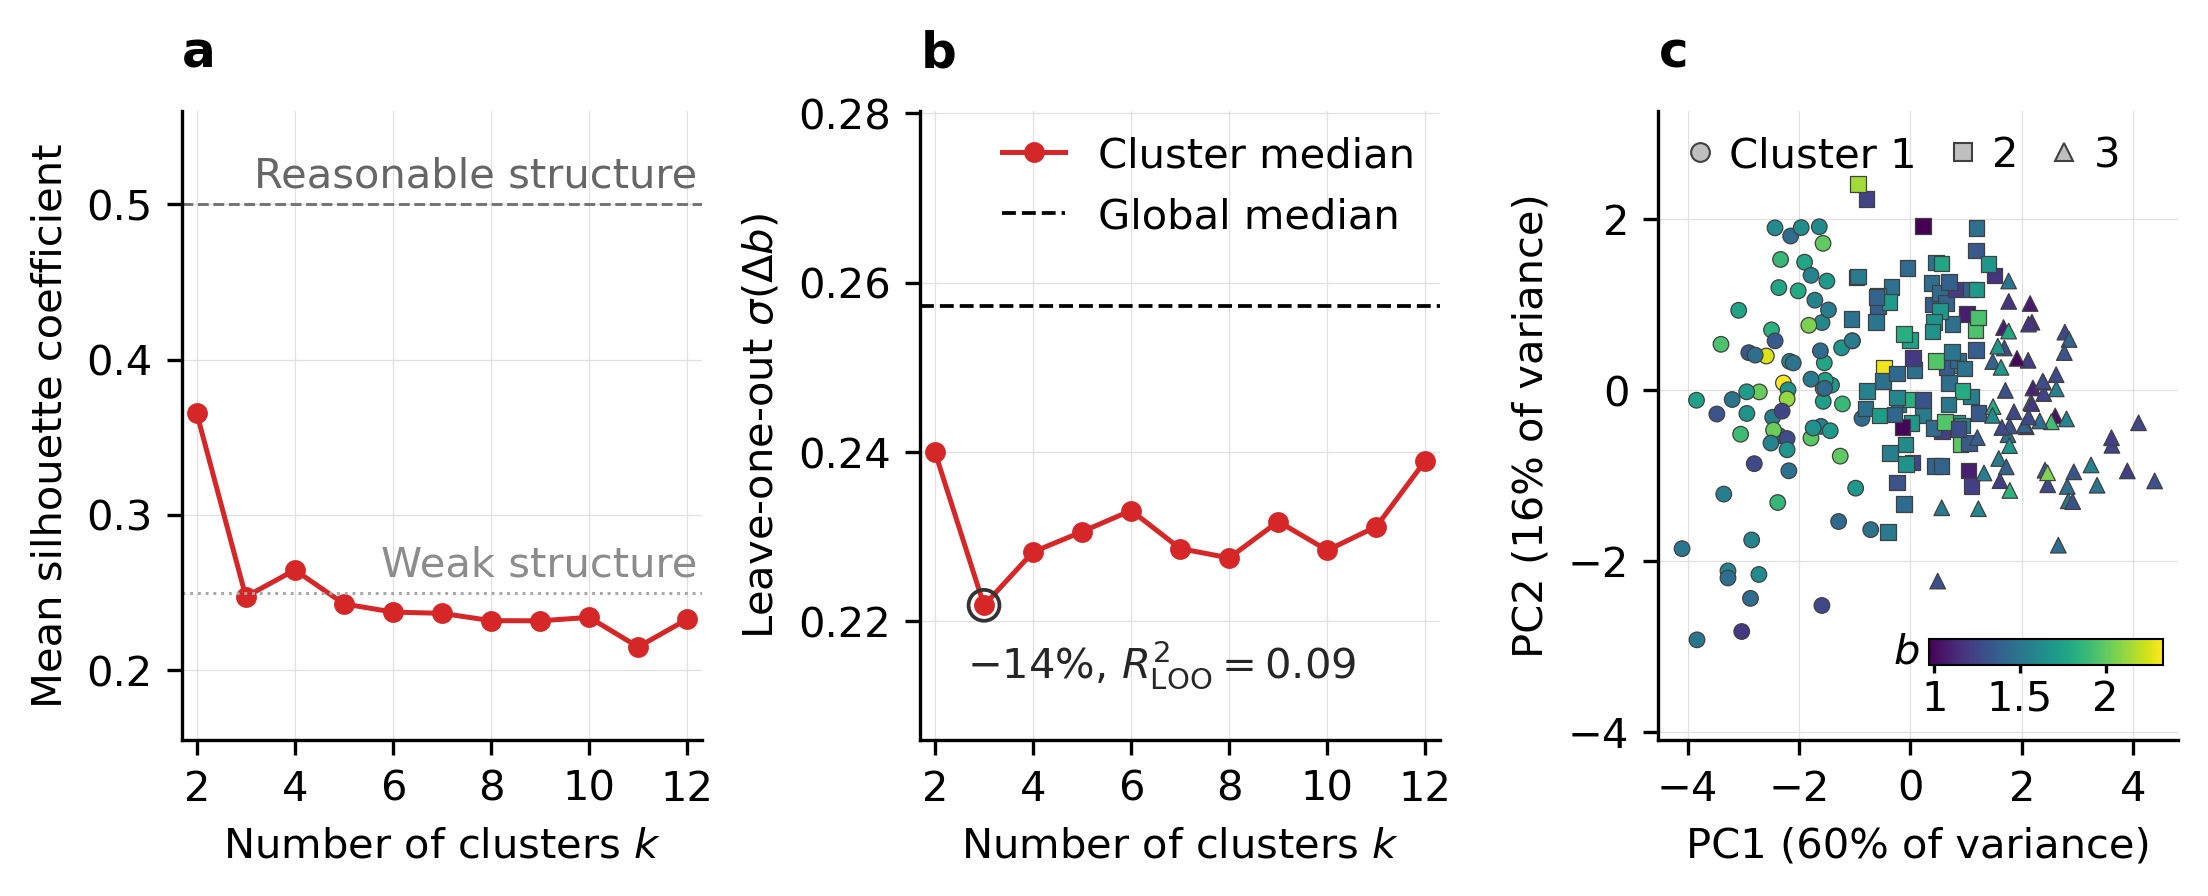
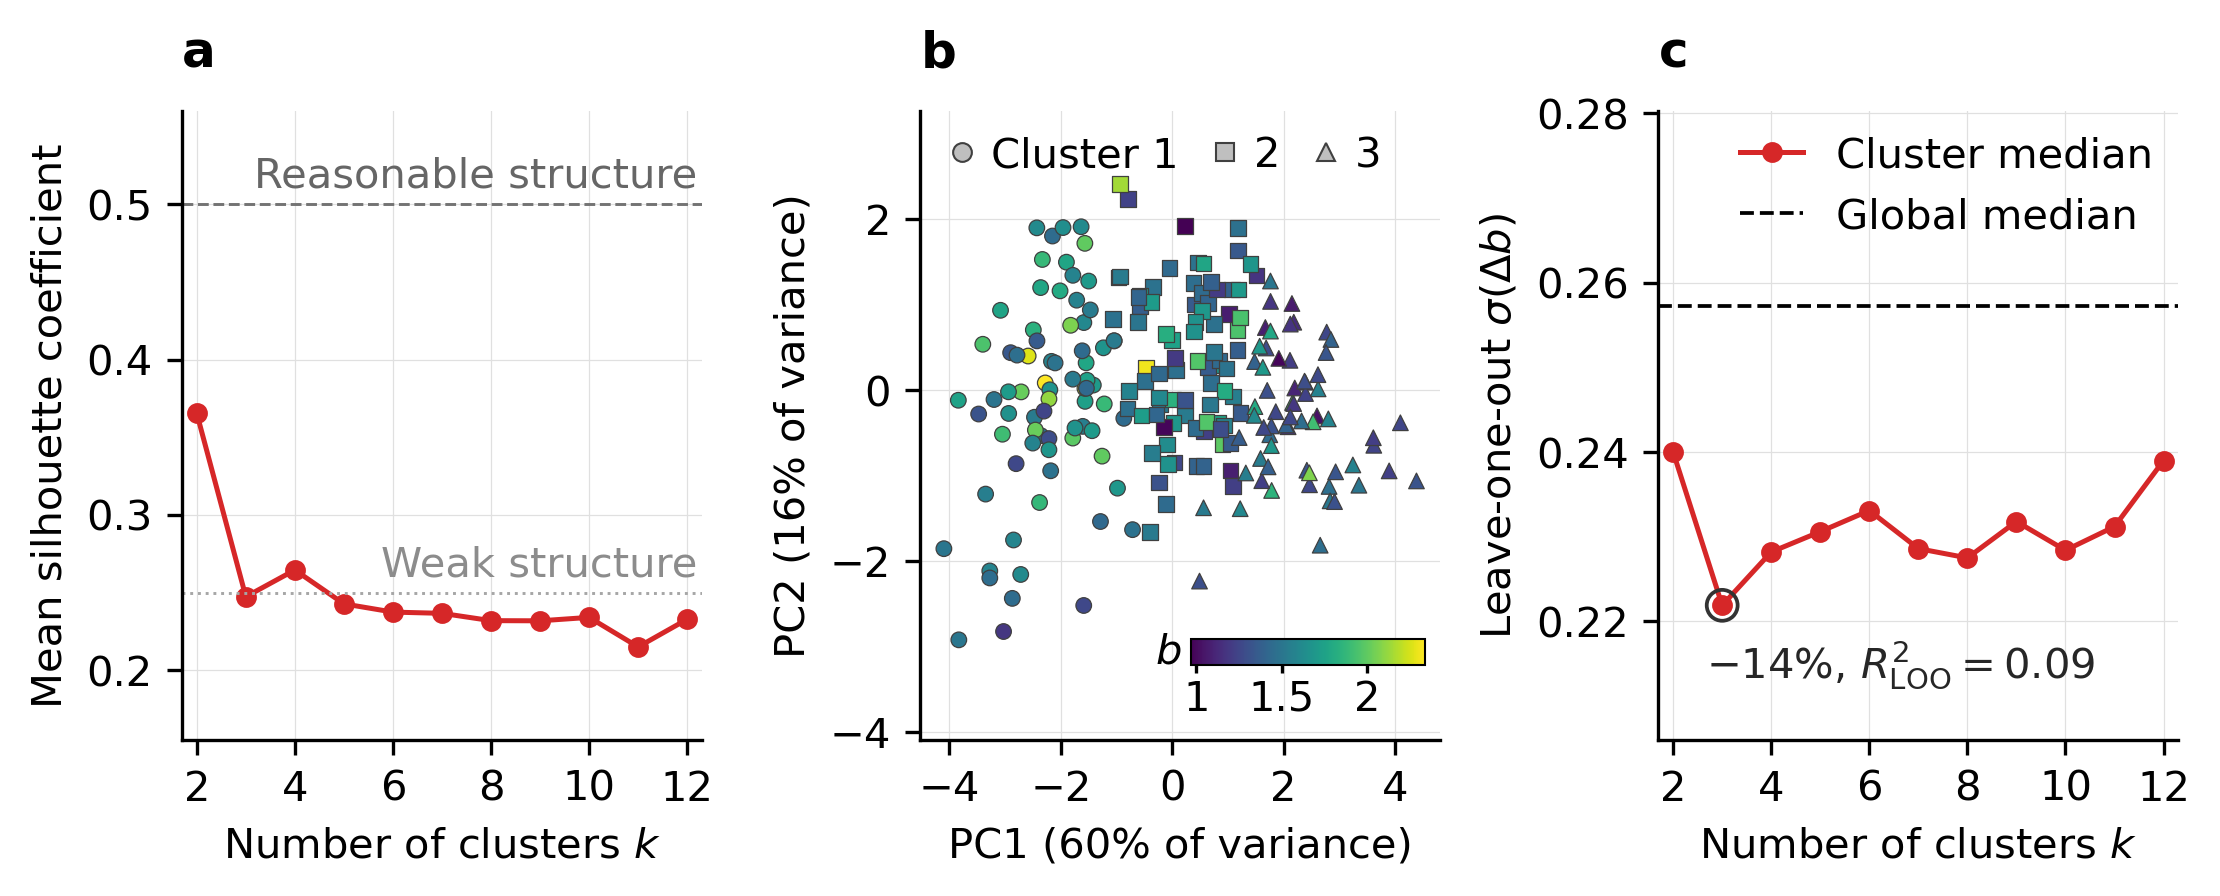
Clustering diagnostic shows the principal components as panel b and the leave-one-out sweep as panel c
Panel s1 draws the training dams in the plane of the first two principal
components as panel b and the leave-one-out sweep over k as panel c, the
order in which the report discusses them. The report caption and its
cross-references follow, the diagnostic values are unchanged.

diff --git a/eaves/postprocess/panels/s1.py b/eaves/postprocess/panels/s1.py
@@ -5,13 +5,13 @@ Three questions:
 1.  Do the training dams partition into morphological clusters in
     log-transformed feature space? Quantified by the mean silhouette
     coefficient across ``k = 2 .. 12``.
-2.  Even if they did, would a per-cluster median ``b`` reduce out-of-sample
-    error? Quantified by leave-one-out ``sigma(delta_b)`` against the
-    global-median baseline and by the leave-one-out R² of the per-cluster
-    median.
-3.  Does ``b`` follow a continuous gradient of the features instead?
+2.  Does ``b`` follow a continuous gradient of the features instead?
     Quantified by the variance shares of the first two principal components
     of the features and the Spearman correlation of ``b`` with the first.
+3.  Even if the dams did partition, would a per-cluster median ``b`` reduce
+    out-of-sample error? Quantified by leave-one-out ``sigma(delta_b)``
+    against the global-median baseline and by the leave-one-out R² of the
+    per-cluster median.
 
 Writes:
 
@@ -204,40 +204,13 @@ def make_s1_clustering(out_dir: Path) -> Path:
         ax_a.grid(True, linewidth=0.3, color="0.88")
         ax_a.set_axisbelow(True)
 
-        # ---- Panel b: LOO sigma(delta_b) vs k ----
+        # ---- Best k of the leave-one-out sweep, shared by panels b and c ----
         base = float(sub["loo_sigma_baseline"].iloc[0])
-        ax_b.plot(sub["k"], sub["loo_sigma_delta_b"],
-                  color=_CURVE_COLOR, marker="o", linewidth=1.2, markersize=4.0,
-                  label="Cluster median")
-        ax_b.axhline(base, color="black", linewidth=0.9, linestyle="--",
-                     label="Global median")
-
         best_idx = sub["loo_sigma_delta_b"].idxmin()
         best_k = int(sub.at[best_idx, "k"])
         best_sigma = float(sub.at[best_idx, "loo_sigma_delta_b"])
-        ax_b.scatter([best_k], [best_sigma], s=55, facecolor="none",
-                     edgecolor="0.20", linewidth=0.9, zorder=5)
-        gain = f"{-float(sub.at[best_idx, 'loo_relative_gain_pct']):+.0f}%".replace("-", "\N{MINUS SIGN}")
-        ax_b.annotate(
-            f"{gain}, "
-            f"$R^2_{{\\mathrm{{LOO}}}} = {sub.at[best_idx, 'loo_r2']:.2f}$",
-            xy=(best_k, best_sigma), xytext=(-4, -8), textcoords="offset points",
-            color="0.15", va="top", ha="left",
-        )
-        # Leaves a band under the curve for the best-k note and a band over the baseline for the key
-        span = base - float(sub["loo_sigma_delta_b"].min())
-        ax_b.set_ylim(best_sigma - 0.45 * span, base + 0.65 * span)
 
-        ax_b.set_xlabel(r"Number of clusters $k$")
-        ax_b.set_ylabel(r"Leave-one-out $\sigma(\Delta b)$")
-        ax_b.set_xticks(_K_RANGE[::2])
-        ax_b.set_xlim(1.7, 12.3)
-        ax_b.grid(True, linewidth=0.3, color="0.88")
-        ax_b.set_axisbelow(True)
-        ax_b.legend(loc="upper right", frameon=False,
-                    handlelength=1.5, borderaxespad=0.2)
-
-        # ---- Panel c: PC1 vs PC2 colored by b, marker shape by cluster ----
+        # ---- Panel b: PC1 vs PC2 colored by b, marker shape by cluster ----
         X = _design_matrix(T, CLUSTER_FEATURES)
         scores, _ = _principal_components(X)
         labels = _cluster_labels(X, scores[:, 0], best_k)
@@ -247,7 +220,7 @@ def make_s1_clustering(out_dir: Path) -> Path:
         for i in range(best_k):
             sel = labels == i
             marker = _CLUSTER_MARKERS[i % len(_CLUSTER_MARKERS)]
-            mappable = ax_c.scatter(
+            mappable = ax_b.scatter(
                 scores[sel, 0], scores[sel, 1], c=b[sel], cmap=_B_CMAP, norm=norm,
                 marker=marker, s=14, edgecolor="0.25", linewidth=0.3, zorder=3,
             )
@@ -255,15 +228,15 @@ def make_s1_clustering(out_dir: Path) -> Path:
                                   markersize=4.5, markerfacecolor="0.75",
                                   markeredgecolor="0.25", markeredgewidth=0.5,
                                   label=f"Cluster {i + 1}" if i == 0 else f"{i + 1}"))
-        ax_c.legend(handles=handles, loc="upper left", ncol=best_k, frameon=False,
+        ax_b.legend(handles=handles, loc="upper left", ncol=best_k, frameon=False,
                     handlelength=0.8, handletextpad=0.3, columnspacing=0.7,
                     borderaxespad=0.2)
 
         # Leaves a band over the cloud for the cluster key and a band under it for the colorbar
         y_lo, y_hi = float(scores[:, 1].min()), float(scores[:, 1].max())
         y_span = y_hi - y_lo
-        ax_c.set_ylim(y_lo - 0.22 * y_span, y_hi + 0.16 * y_span)
-        cax = ax_c.inset_axes([0.52, 0.12, 0.45, 0.04])
+        ax_b.set_ylim(y_lo - 0.22 * y_span, y_hi + 0.16 * y_span)
+        cax = ax_b.inset_axes([0.52, 0.12, 0.45, 0.04])
         cbar = fig.colorbar(mappable, cax=cax, orientation="horizontal")
         cax.text(-0.04, 0.5, "$b$", transform=cax.transAxes, ha="right", va="center")
         cbar.ax.xaxis.set_major_locator(plt.MultipleLocator(0.5))
@@ -271,12 +244,40 @@ def make_s1_clustering(out_dir: Path) -> Path:
         cbar.ax.tick_params(length=2.0, pad=1.5)
         cbar.outline.set_linewidth(0.5)
 
-        ax_c.set_xlabel(f"PC1 ({100.0 * float(sub['pc1_var_share'].iloc[0]):.0f}% of variance)")
-        ax_c.set_ylabel(f"PC2 ({100.0 * float(sub['pc2_var_share'].iloc[0]):.0f}% of variance)")
-        ax_c.xaxis.set_major_locator(plt.MultipleLocator(2))
-        ax_c.yaxis.set_major_locator(plt.MultipleLocator(2))
+        ax_b.set_xlabel(f"PC1 ({100.0 * float(sub['pc1_var_share'].iloc[0]):.0f}% of variance)")
+        ax_b.set_ylabel(f"PC2 ({100.0 * float(sub['pc2_var_share'].iloc[0]):.0f}% of variance)")
+        ax_b.xaxis.set_major_locator(plt.MultipleLocator(2))
+        ax_b.yaxis.set_major_locator(plt.MultipleLocator(2))
+        ax_b.grid(True, linewidth=0.3, color="0.88")
+        ax_b.set_axisbelow(True)
+
+        # ---- Panel c: LOO sigma(delta_b) vs k ----
+        ax_c.plot(sub["k"], sub["loo_sigma_delta_b"],
+                  color=_CURVE_COLOR, marker="o", linewidth=1.2, markersize=4.0,
+                  label="Cluster median")
+        ax_c.axhline(base, color="black", linewidth=0.9, linestyle="--",
+                     label="Global median")
+        ax_c.scatter([best_k], [best_sigma], s=55, facecolor="none",
+                     edgecolor="0.20", linewidth=0.9, zorder=5)
+        gain = f"{-float(sub.at[best_idx, 'loo_relative_gain_pct']):+.0f}%".replace("-", "\N{MINUS SIGN}")
+        ax_c.annotate(
+            f"{gain}, "
+            f"$R^2_{{\\mathrm{{LOO}}}} = {sub.at[best_idx, 'loo_r2']:.2f}$",
+            xy=(best_k, best_sigma), xytext=(-4, -8), textcoords="offset points",
+            color="0.15", va="top", ha="left",
+        )
+        # Leaves a band under the curve for the best-k note and a band over the baseline for the key
+        span = base - float(sub["loo_sigma_delta_b"].min())
+        ax_c.set_ylim(best_sigma - 0.45 * span, base + 0.65 * span)
+
+        ax_c.set_xlabel(r"Number of clusters $k$")
+        ax_c.set_ylabel(r"Leave-one-out $\sigma(\Delta b)$")
+        ax_c.set_xticks(_K_RANGE[::2])
+        ax_c.set_xlim(1.7, 12.3)
         ax_c.grid(True, linewidth=0.3, color="0.88")
         ax_c.set_axisbelow(True)
+        ax_c.legend(loc="upper right", frameon=False,
+                    handlelength=1.5, borderaxespad=0.2)
 
         panel_label(ax_a, "a", fontsize=12, y_offset_pt=8.0)
         panel_label(ax_b, "b", fontsize=12, y_offset_pt=8.0)

diff --git a/eaves/postprocess/report.py b/eaves/postprocess/report.py
@@ -1209,13 +1209,13 @@ def render_report_md(stats: dict, generated_at: str) -> str:
       f"{_fmt(stats.get('b_cluster_baseline_sigma'))} to "
       f"{_fmt(stats.get('b_cluster_best_sigma'))}, but its leave-one-out R² "
       f"reaches only {_fmt(stats.get('b_cluster_best_loo_r2'))}, below the "
-      "0.25 gate applied to the regressions (Fig. S1b). Mean silhouette "
+      "0.25 gate applied to the regressions (Fig. S1c). Mean silhouette "
       f"coefficients of {_fmt(stats.get('b_cluster_silhouette_min'))} to "
       f"{_fmt(stats.get('b_cluster_silhouette_max'))} stay below the "
       "conventional 0.50 reasonable-structure threshold, so the training "
       "dams do not split into well-separated groups, although b varies "
       "gradually along the first principal component (Spearman ρ = "
-      f"{_fmt(stats.get('b_cluster_pc1_spearman_b'))}, Fig. S1c).")
+      f"{_fmt(stats.get('b_cluster_pc1_spearman_b'))}, Fig. S1b).")
     A("")
     A("_Practical implication._ "
       "No clustering configuration reaches the 0.25 gate that a regression "
@@ -1581,21 +1581,21 @@ def render_report_md(stats: dict, generated_at: str) -> str:
         "conventional 0.50 reasonable-structure threshold for every "
         f"k. The k = {stats.get('b_cluster_silhouette_max_k', 'n/a')} peak at "
         f"{_fmt(stats.get('b_cluster_silhouette_max'))} reflects a cut "
-        "across the dominant gradient of panel c, not two morphological "
-        "types. (b) Leave-"
+        "across the dominant gradient of panel b, not two morphological "
+        "types. (b) The training dams in the plane of "
+        "the first two principal components of the standardized "
+        "log-transformed features, colored by b, with marker shapes for "
+        "the clusters at the best k of panel c. The first two components "
+        f"carry {pc1_share_str} and {pc2_share_str} of the variance, and b "
+        "varies along the first "
+        f"(Spearman ρ = {pc1_rho_str}), so the dams form "
+        "one continuous cloud along which b changes gradually. "
+        "(c) Leave-"
         "one-out σ(Δb) for a per-cluster-median predictor "
         "of b versus the global-median baseline (dashed). The best "
         f"configuration (k = {stats.get('b_cluster_best_k', 'n/a')}) lowers σ(Δb) "
         f"by {gain_str}%, while its leave-one-out R² stays at "
-        f"{_fmt(stats.get('b_cluster_best_loo_r2'))}, below the 0.25 gate. "
-        "(c) The training dams in the plane of "
-        "the first two principal components of the standardized "
-        "log-transformed features, colored by b, with marker shapes for "
-        "the clusters at the best k of panel b. The first two components "
-        f"carry {pc1_share_str} and {pc2_share_str} of the variance, and b "
-        "varies along the first "
-        f"(Spearman ρ = {pc1_rho_str}), so the dams form "
-        "one continuous cloud along which b changes gradually.",
+        f"{_fmt(stats.get('b_cluster_best_loo_r2'))}, below the 0.25 gate.",
     ))
     L.extend(_embed_figure(
         "s2_uncertainty_band.png",

diff --git a/region/ksa/output/report.md b/region/ksa/output/report.md
@@ -1,6 +1,6 @@
 # EAVES domain report: Saudi Arabia
 
-Generated: 2026-11-04 15:49 UTC
+Generated: 2026-11-05 08:54 UTC
 
 Source code: `eaves/` package. This report: `eaves.postprocess.report`.
 
@@ -121,7 +121,7 @@ _Choice of b._ The selected procedure assigns every regionalized dam the regiona
 
 _1. Multivariate regression (linear and random forest)._ A linear regression and a random forest of b on `valley_ratio`, `channel_slope`, `mean_catchment_slope`, and `dam_height_m` are evaluated by leave-one-out cross-validation on the training dams at or above the minimum training capacity with complete features. The selection gate requires R²_LOO ≥ 0.25 for a regression to replace the median. Both models fall below the gate. No single feature explains more than about 10% of the variance in b (Spearman |ρ| ≤ 0.32 over the 84 dams of the regression basis), and the features are partly redundant, so combining them yields no improvement over the constant. The regional median is therefore retained.
 
-_2. Morphological clustering with a per-cluster median._ K-means clustering in standardized log space on six morphometric features (valley-width ratio, channel slope, mean catchment slope, dam height, spillway height and dam length) sweeps k = 2 to 12, with the results released in `validation/b_clustering_diagnostic.csv`. The best configuration (k = 3) lowers the leave-one-out σ(Δb) by 14%, from 0.26 to 0.22, but its leave-one-out R² reaches only 0.09, below the 0.25 gate applied to the regressions (Fig. S1b). Mean silhouette coefficients of 0.22 to 0.37 stay below the conventional 0.50 reasonable-structure threshold, so the training dams do not split into well-separated groups, although b varies gradually along the first principal component (Spearman ρ = -0.41, Fig. S1c).
+_2. Morphological clustering with a per-cluster median._ K-means clustering in standardized log space on six morphometric features (valley-width ratio, channel slope, mean catchment slope, dam height, spillway height and dam length) sweeps k = 2 to 12, with the results released in `validation/b_clustering_diagnostic.csv`. The best configuration (k = 3) lowers the leave-one-out σ(Δb) by 14%, from 0.26 to 0.22, but its leave-one-out R² reaches only 0.09, below the 0.25 gate applied to the regressions (Fig. S1c). Mean silhouette coefficients of 0.22 to 0.37 stay below the conventional 0.50 reasonable-structure threshold, so the training dams do not split into well-separated groups, although b varies gradually along the first principal component (Spearman ρ = -0.41, Fig. S1b).
 
 _Practical implication._ No clustering configuration reaches the 0.25 gate that a regression must clear, so the selected procedure keeps the **regional median**, and the `b_sigma` column of `validation/v_uncertainty.csv` quantifies the remaining spread of b.
 
@@ -220,7 +220,7 @@ To run EAVES on a new region, give the paths of the dam catalog, the DEM and the
 
 ![Supplementary: K-means clustering diagnostic for b](2_results_plots/s1_b_clustering_silhouette.png)
 
-_Figure S1. K-means clustering diagnostic on the training-set dams in log-transformed morphometric feature space. (a) Mean silhouette coefficient versus number of clusters k for the six morphometric features. It remains below the conventional 0.50 reasonable-structure threshold for every k. The k = 2 peak at 0.37 reflects a cut across the dominant gradient of panel c, not two morphological types. (b) Leave-one-out σ(Δb) for a per-cluster-median predictor of b versus the global-median baseline (dashed). The best configuration (k = 3) lowers σ(Δb) by 14%, while its leave-one-out R² stays at 0.09, below the 0.25 gate. (c) The training dams in the plane of the first two principal components of the standardized log-transformed features, colored by b, with marker shapes for the clusters at the best k of panel b. The first two components carry 60% and 16% of the variance, and b varies along the first (Spearman ρ = -0.41), so the dams form one continuous cloud along which b changes gradually._
+_Figure S1. K-means clustering diagnostic on the training-set dams in log-transformed morphometric feature space. (a) Mean silhouette coefficient versus number of clusters k for the six morphometric features. It remains below the conventional 0.50 reasonable-structure threshold for every k. The k = 2 peak at 0.37 reflects a cut across the dominant gradient of panel b, not two morphological types. (b) The training dams in the plane of the first two principal components of the standardized log-transformed features, colored by b, with marker shapes for the clusters at the best k of panel c. The first two components carry 60% and 16% of the variance, and b varies along the first (Spearman ρ = -0.41), so the dams form one continuous cloud along which b changes gradually. (c) Leave-one-out σ(Δb) for a per-cluster-median predictor of b versus the global-median baseline (dashed). The best configuration (k = 3) lowers σ(Δb) by 14%, while its leave-one-out R² stays at 0.09, below the 0.25 gate._
 
 ![Supplementary: Per-dam volume uncertainty band](2_results_plots/s2_uncertainty_band.png)
 

diff --git a/CHANGELOG.md b/CHANGELOG.md
@@ -57,10 +57,10 @@ The project adheres to [Semantic Versioning](https://semver.org/).
   GRDL curve at equal area.
 - **Principal components in the clustering diagnostic**
   (`eaves.postprocess.panels.s1`, `eaves.postprocess.report`). Panel s1
-  draws three panels of one height in one row 187 mm wide, where panel c
+  draws three panels of one height in one row 187 mm wide, where panel b
   shows the training dams in the plane of the first two principal
   components of the clustering features, colored by `b` and marked by
-  the clusters at the best `k` of panel b.
+  the clusters at the best `k` of panel c.
   `validation/b_clustering_diagnostic.csv` carries the leave-one-out R²
   of the per-cluster median (`loo_r2`), the variance shares of the first
   two principal components (`pc1_var_share`, `pc2_var_share`) and the
